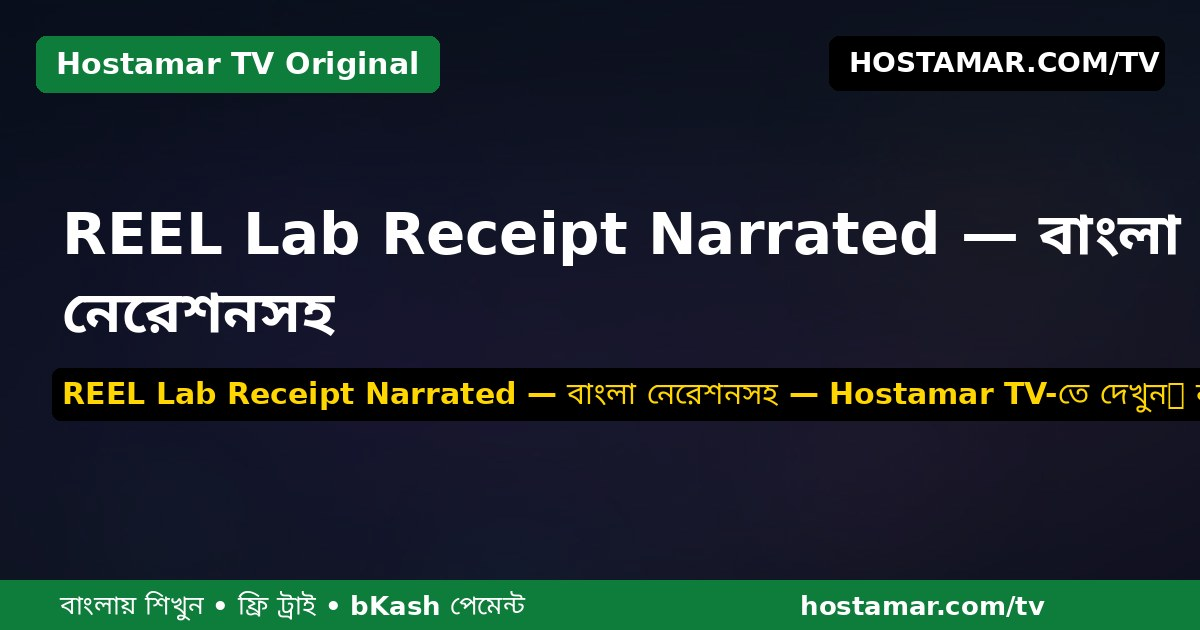
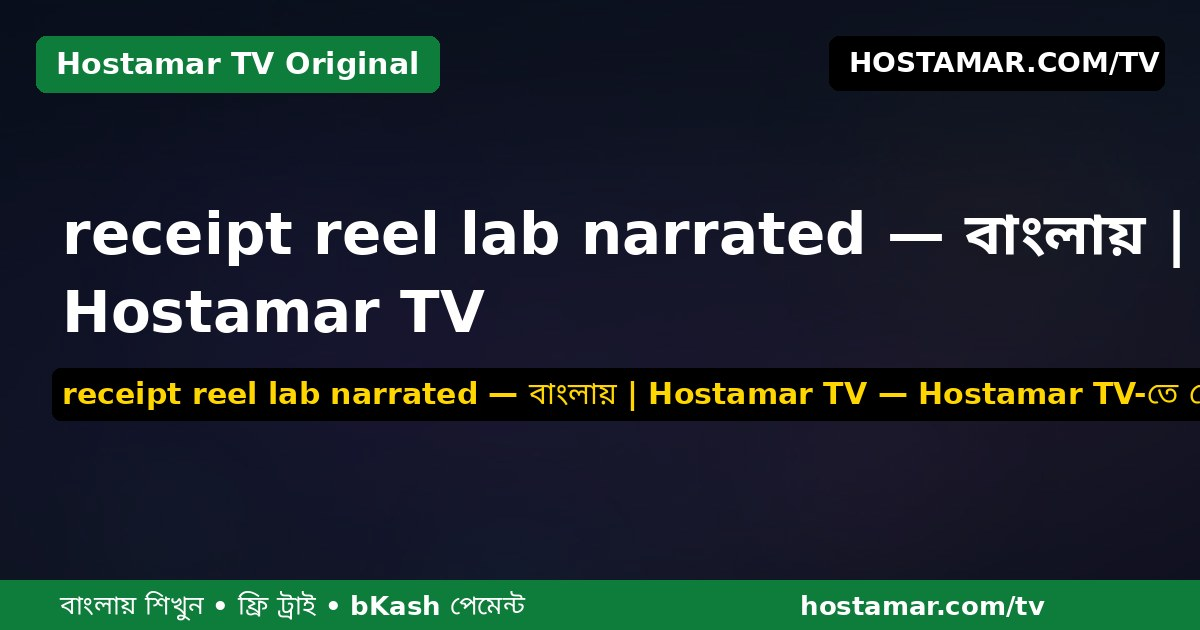
SEO: increase sitemap TV watch page limit 200->500 + regenerated OG images

Changed region(s): [[0.0308, 0.3317, 0.9867, 0.4222], [0.0308, 0.6032, 1.0, 0.6635], [0.0308, 0.4524, 0.4008, 0.5429]]

diff --git a/app/sitemap.ts b/app/sitemap.ts
@@ -107,12 +107,12 @@ export default async function sitemap(): Promise<MetadataRoute.Sitemap> {
   try {
     const c = getTursoEdgeClient()
     const res = await c.execute(`
-      SELECT tvs.slug, tvs.updatedAt
-      FROM "TvVideoSeo" tvs
-      JOIN "FreeVideoSource" fvs ON tvs."videoSourceId" = fvs.id
-      ORDER BY tvs.updatedAt DESC
-      LIMIT 200
-    `)
+          SELECT tvs.slug, tvs.updatedAt
+          FROM "TvVideoSeo" tvs
+          JOIN "FreeVideoSource" fvs ON tvs."videoSourceId" = fvs.id
+          ORDER BY tvs.updatedAt DESC
+          LIMIT 500
+        `)
     videoEntries = res.rows.map((r) => ({
       url: `${SITE_URL}/tv/watch/${String(r.slug)}`,
       lastModified: r.updatedAt ? new Date(String(r.updatedAt)) : now,
@@ -123,11 +123,11 @@ export default async function sitemap(): Promise<MetadataRoute.Sitemap> {
     console.warn('[sitemap] turso path failed:', String(e1?.message || e1).slice(0, 200))
     try {
       const videos = await (prisma as any).tvVideoSeo.findMany({
-        where: { videoSource: {} }, // FreeVideoSource has no status column
-        select: { slug: true, updatedAt: true },
-        orderBy: { updatedAt: 'desc' },
-        take: 200,
-      })
+              where: { videoSource: {} }, // FreeVideoSource has no status column
+              select: { slug: true, updatedAt: true },
+              orderBy: { updatedAt: 'desc' },
+              take: 500,
+            })
       videoEntries = videos.map((v: { slug: string; updatedAt: Date }) => ({
         url: `${SITE_URL}/tv/watch/${v.slug}`,
         lastModified: v.updatedAt || now,
